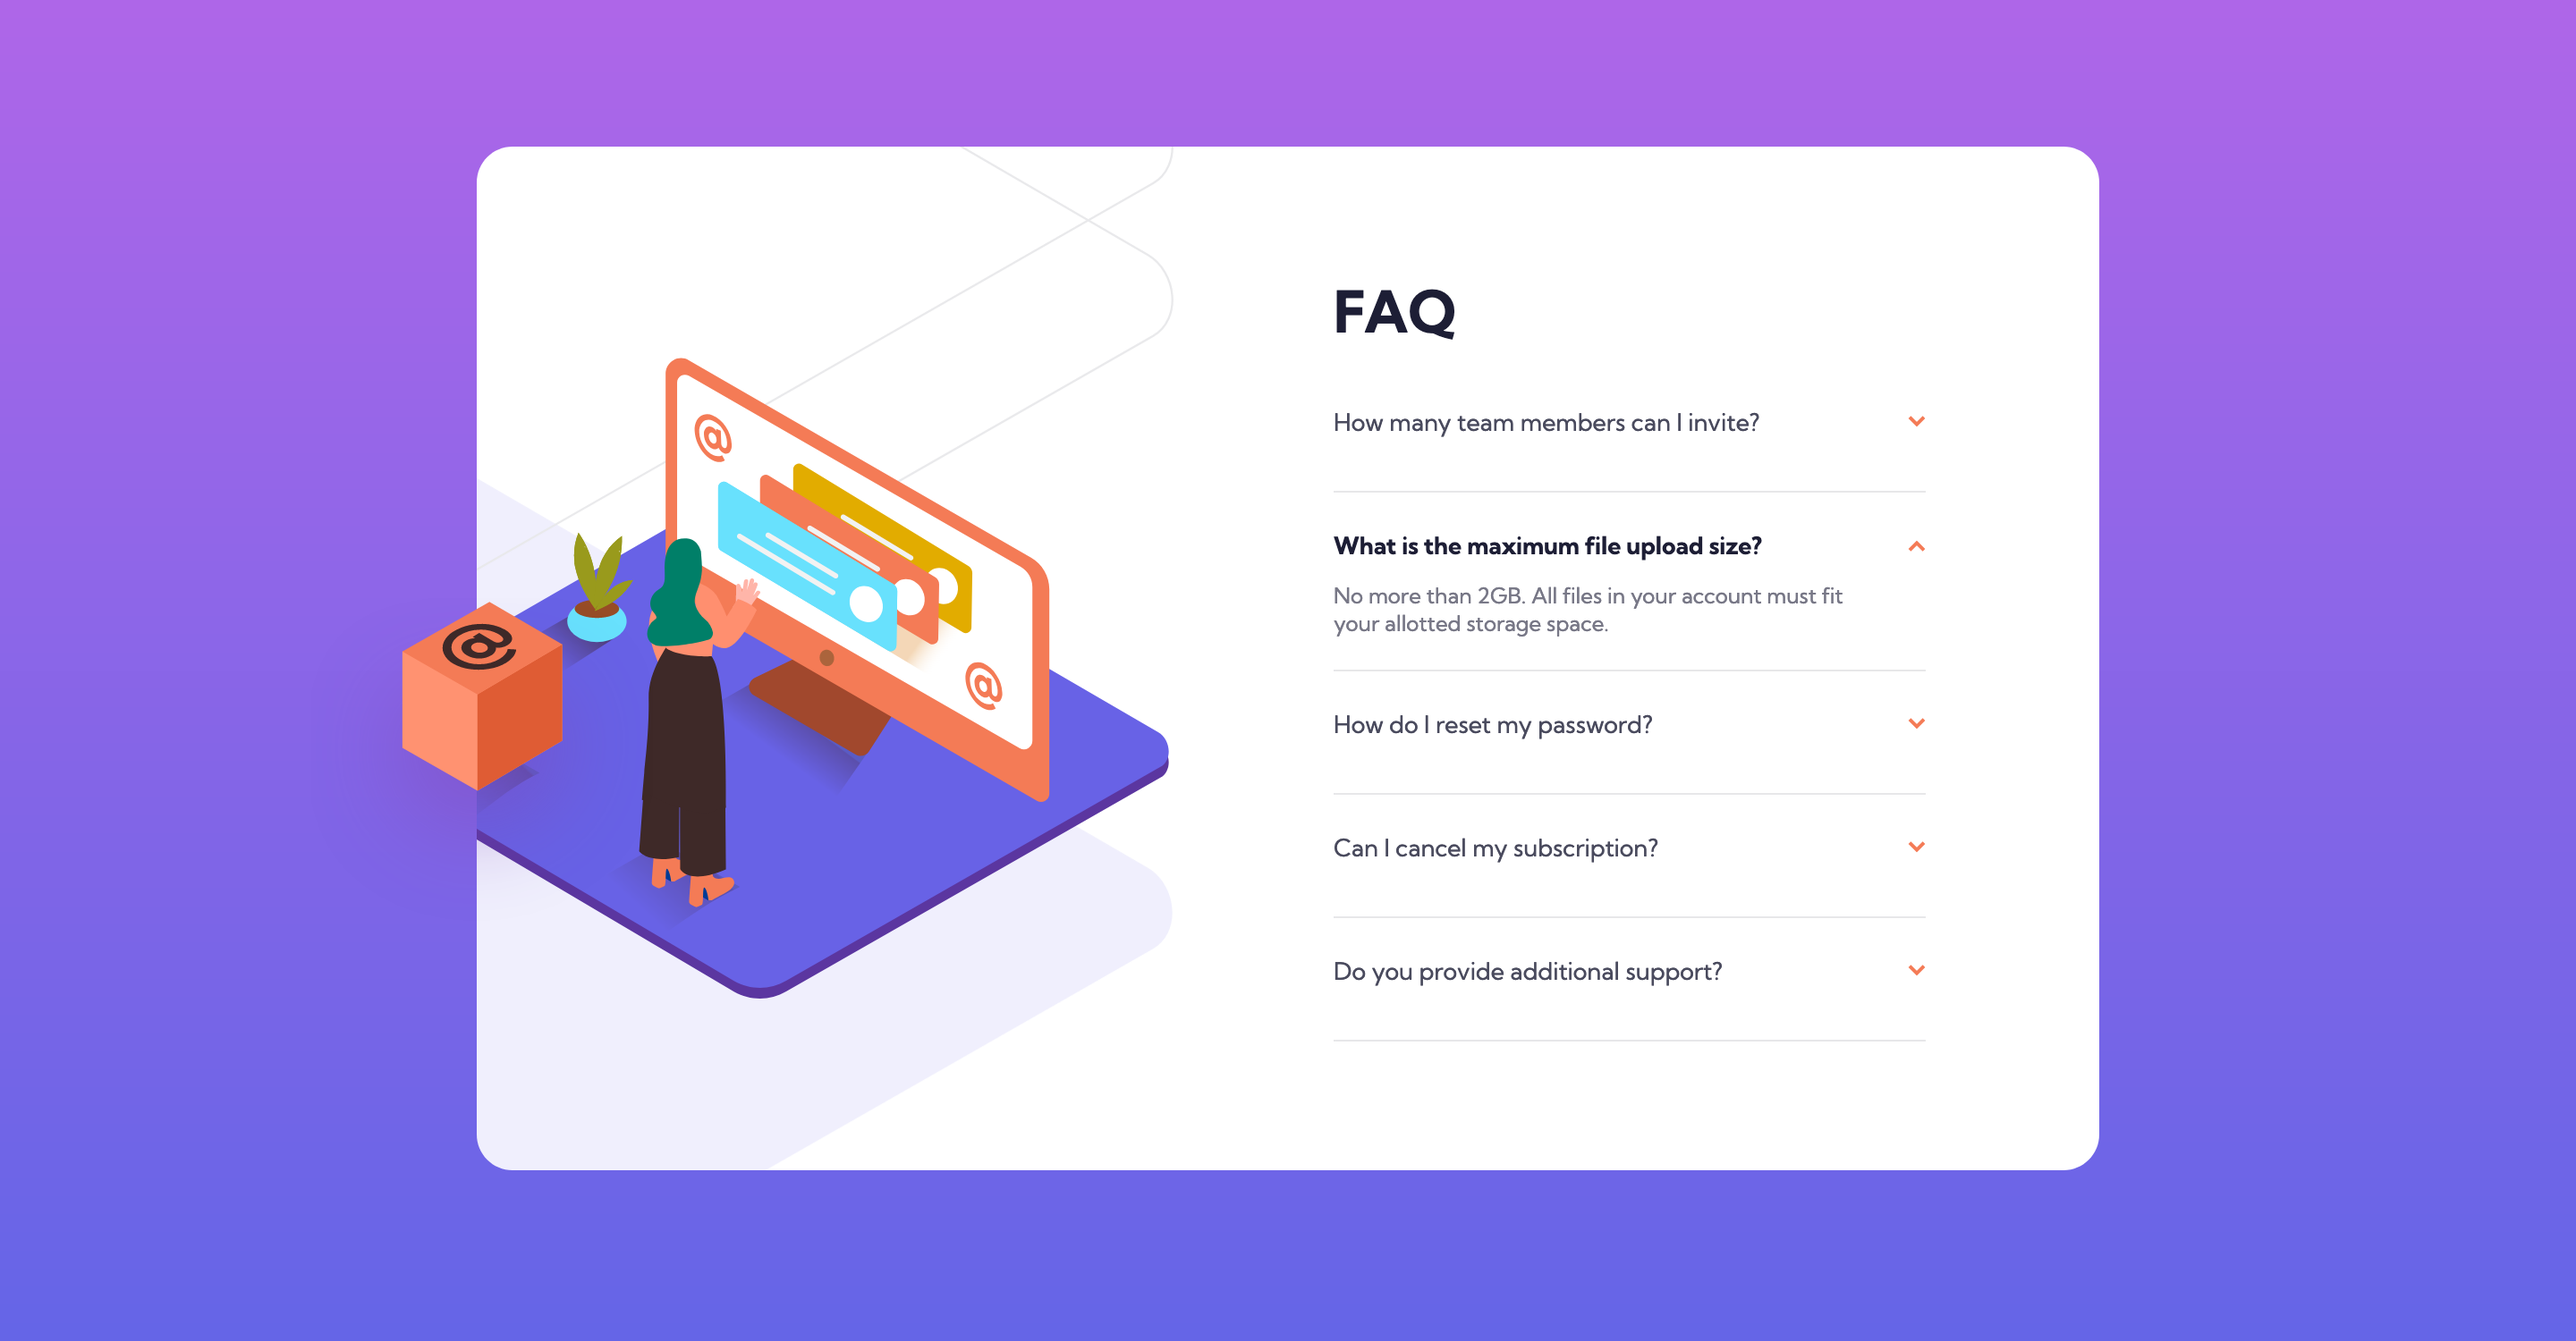
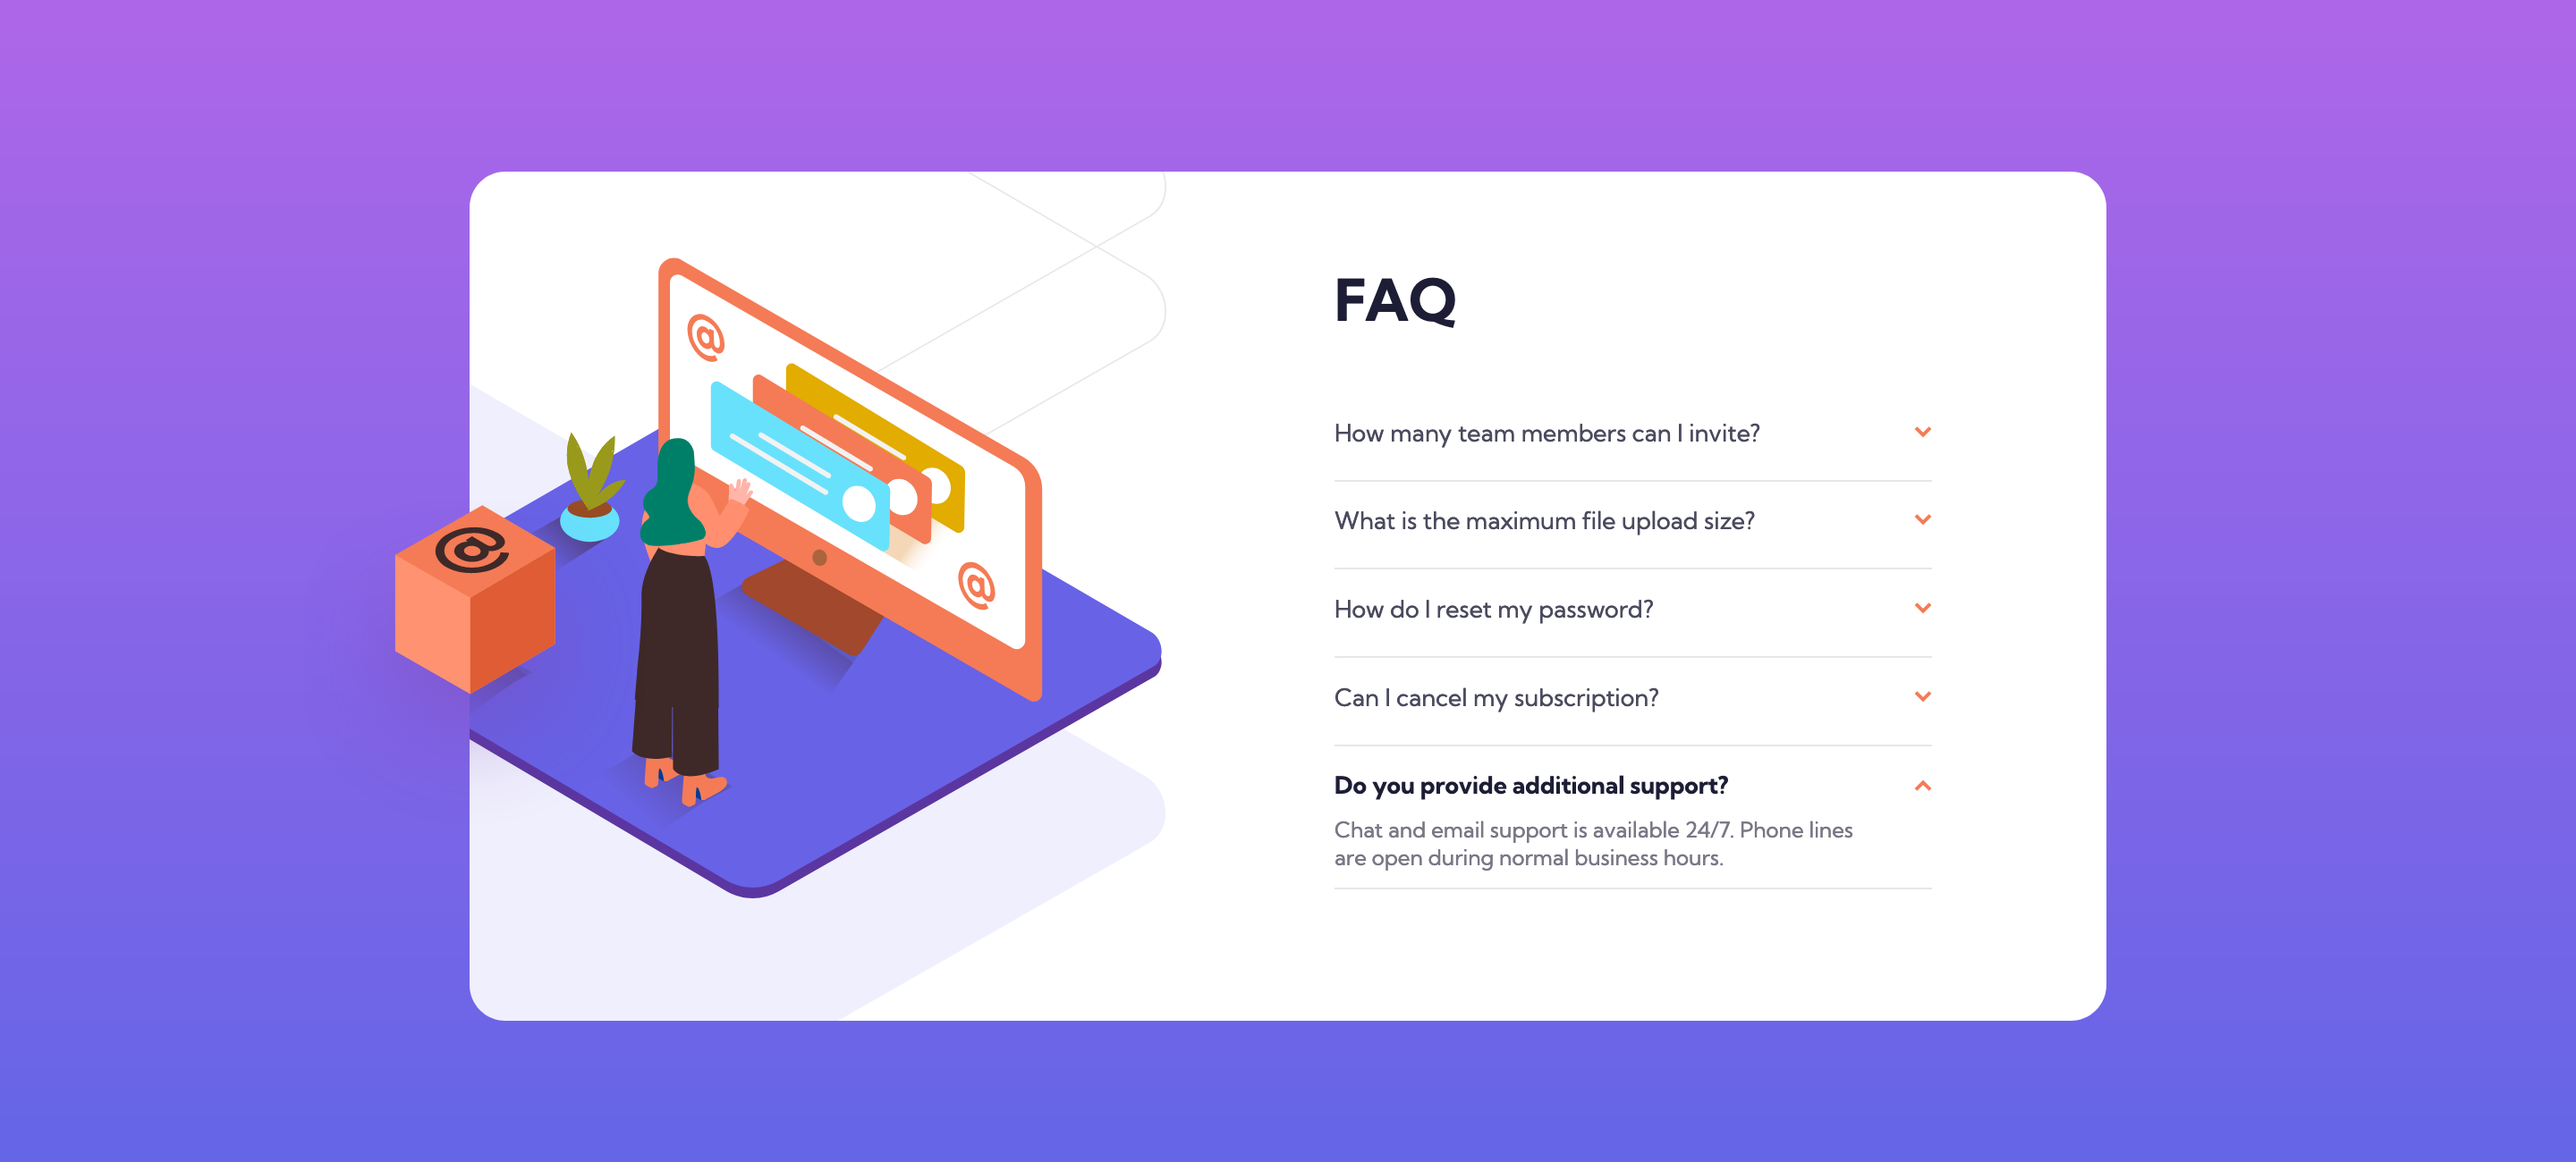
fix sizes in container including, background image, illustration and accordion

diff --git a/styles.css b/styles.css
@@ -78,10 +78,12 @@ body {
 .accordion {
   padding-left: 0;
   min-width: 100%;
+  text-align: start;
+  transform: translateY(20px);
 }
 
 .accordion-item {
-  padding: 0.75em 0 1em;
+  /* padding: 0.75em 0 1em; */
   display: flex;
   flex-direction: column;
   justify-content: center;
@@ -96,7 +98,7 @@ body {
   outline: white;
   border: none;
   color: var(--Very-dark-grayish-blue);
-  padding: 0;
+  padding: 1em 0 0;
   display: flex;
   justify-content: space-between;
   align-items: center;
@@ -116,12 +118,12 @@ body {
 .accordion-panel {
   color: var(--Dark-grayish-blue);
   border-bottom: 1px solid var(--Light-grayish-blue);
-  padding-bottom: 1.5em;
+  padding: 9px 0;
 }
 
 .accordion-panel-text {
   width: 90%;
-  padding-top: 1em;
+  /* padding-top: 1em; */
   max-height: 0;
   overflow: hidden;
   transition: max-height 0.2s ease-in-out;
@@ -135,7 +137,7 @@ chevron rotates when button is clicked(javascript)
 */
 
 .accordion-control.active + .accordion-panel > .accordion-panel-text {
-  max-height: 247px;
+  max-height: 55px;
 }
 
 .chevron {
@@ -151,15 +153,16 @@ chevron rotates when button is clicked(javascript)
     flex-direction: row;
     justify-content: unset;
     width: 915px;
-    height: 500px;
+    height: 475px;
     margin-top: 8em;
     padding-right: 3em;
     padding-left: 0;
+    padding-bottom: 2em;
     background-image: url(images/bg-pattern-desktop.svg);
     background-repeat: no-repeat;
-    background-position-y: -360px;
-    background-position-x: -710px;
-    background-size: 1100px;
+    background-position-y: -270px;
+    background-position-x: -510px;
+    background-size: 900px;
   }
 
   .illustration-container {
@@ -180,14 +183,14 @@ chevron rotates when button is clicked(javascript)
 
   .illustration-desktop {
     display: block;
-    transform: translate(-85px, 85px);
+    transform: translate(-85px, 58px);
     position: relative;
   }
 
   .illustration-box-desktop {
     display: block;
     position: absolute;
-    top: 220px;
+    top: 195px;
     left: -92.5px;
   }
 
